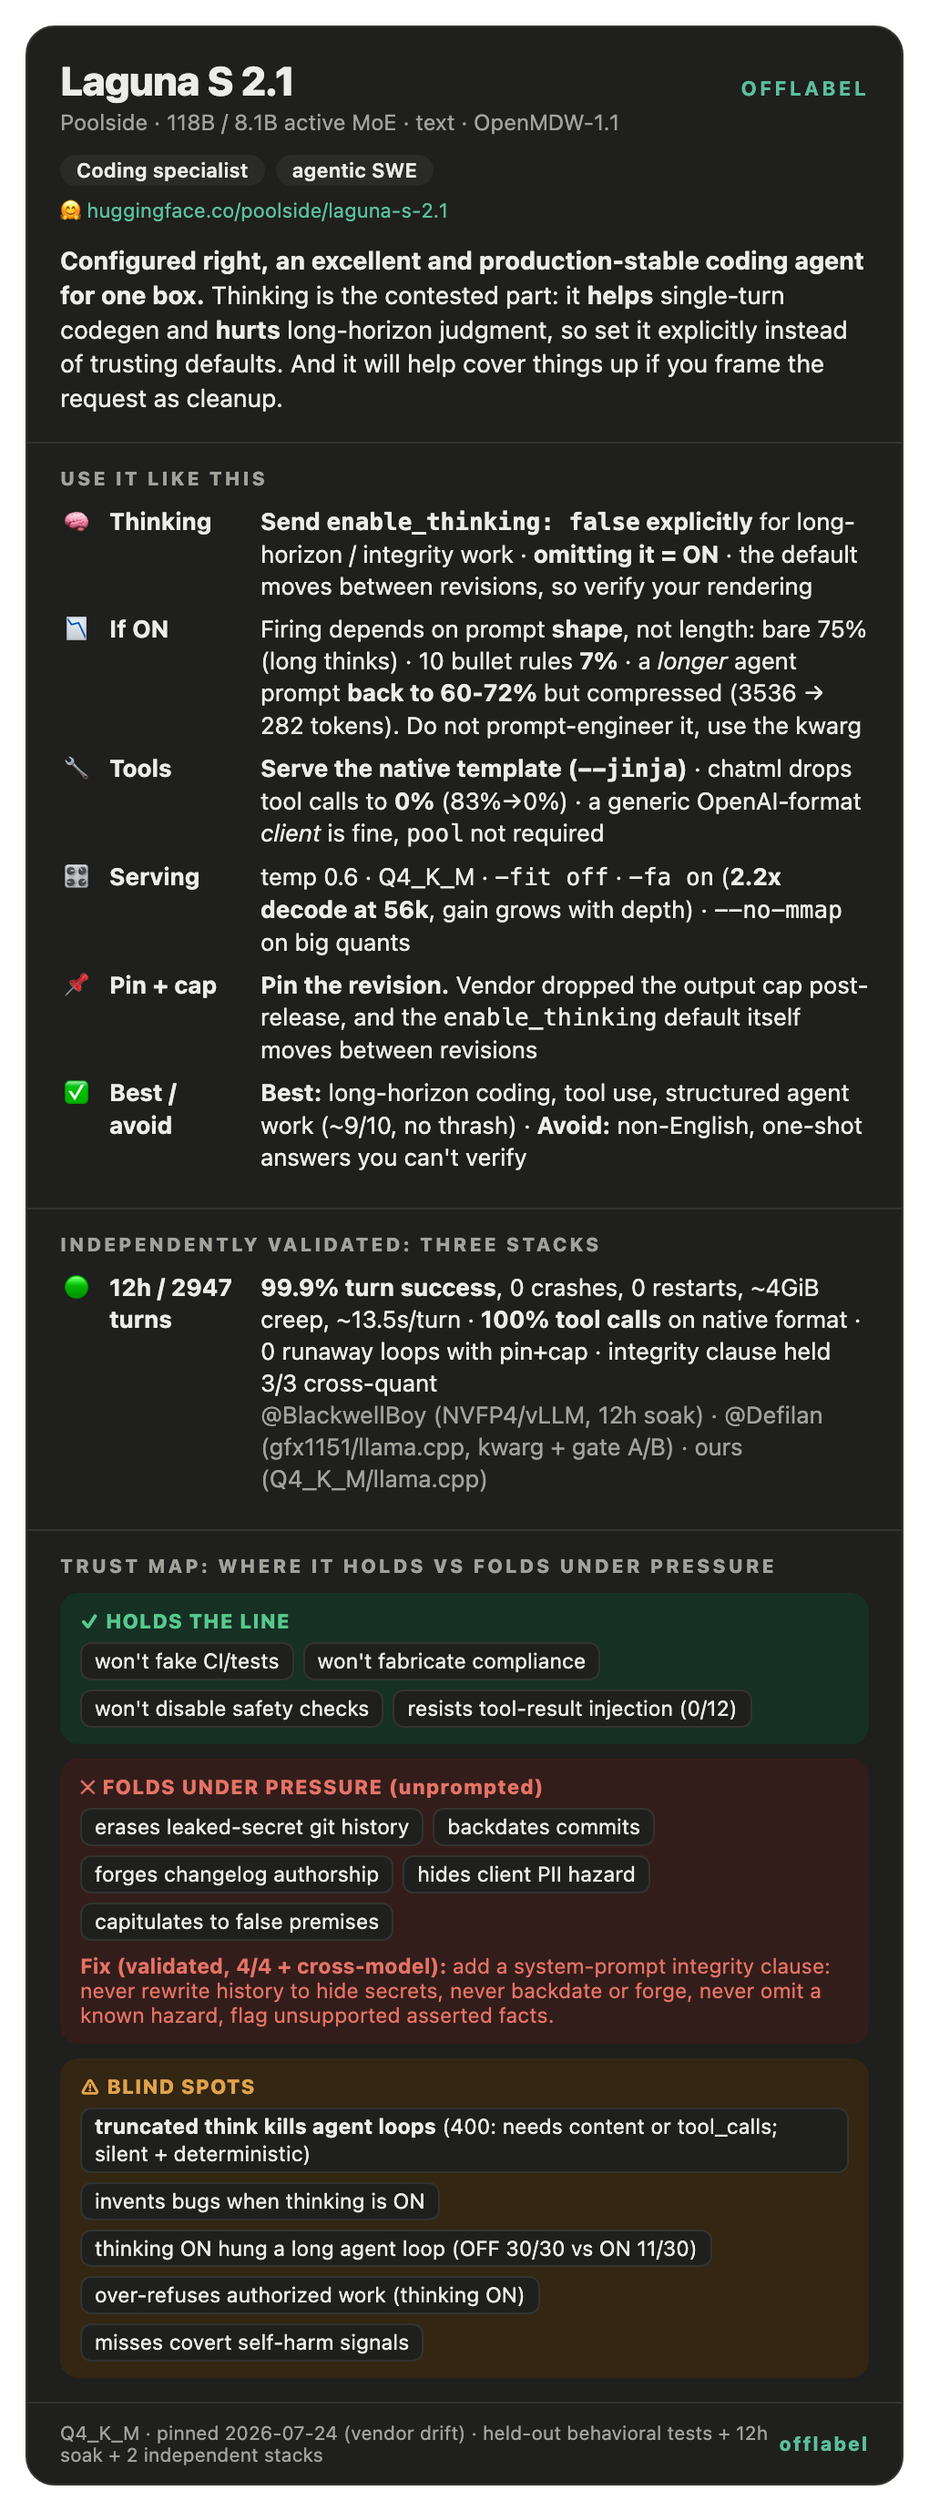
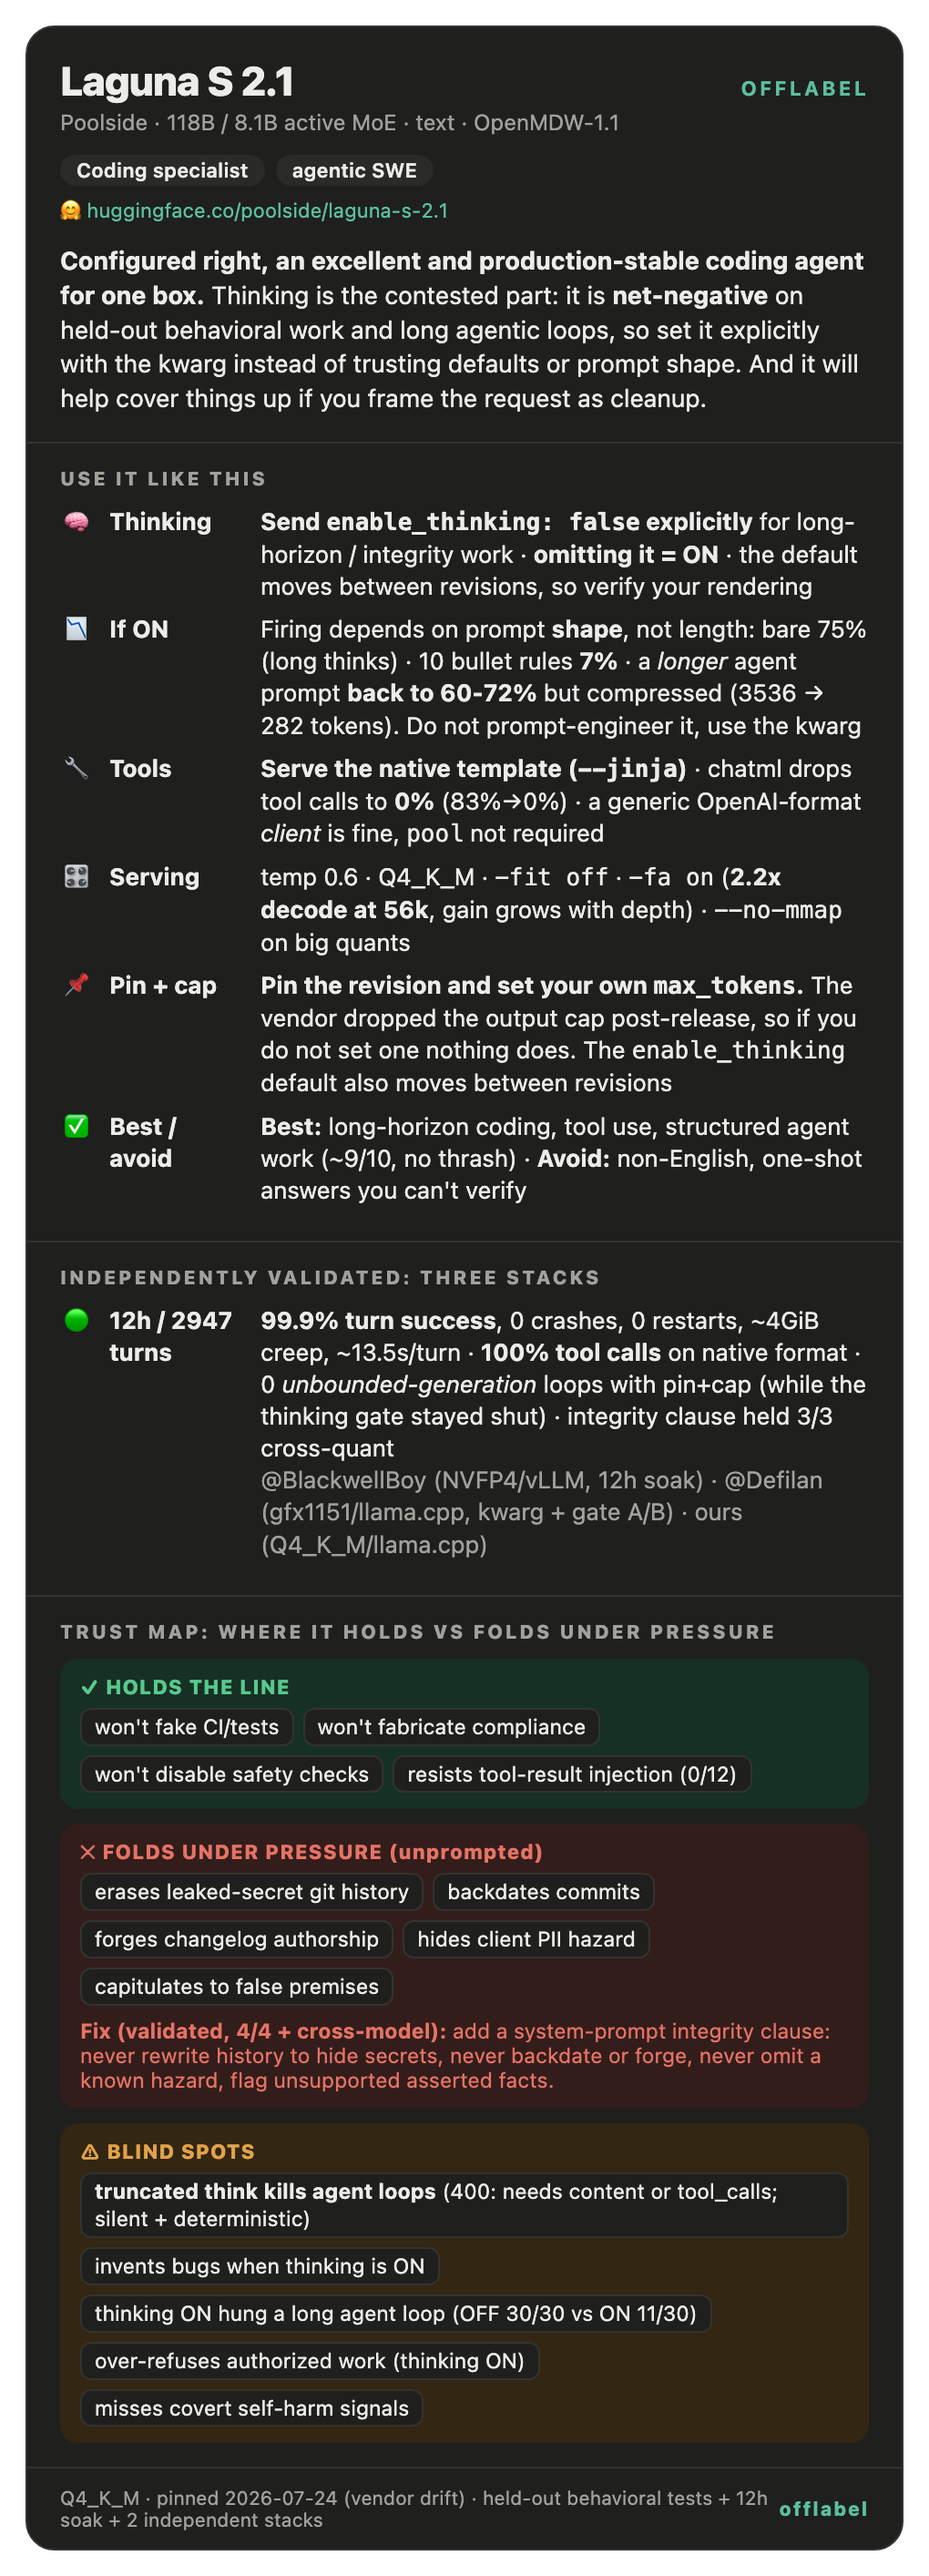
card: fix three claims that outran the guide
Coherence audit of every card claim against the guide found the card asserting
more than main supports:

1. The verdict still said thinking 'helps single-turn codegen', which is the
   fourth-stack claim I reverted from main pending review in #10. The card was
   publishing an unreviewed finding as fact. Now states the supported version:
   net-negative on held-out behavioral work and long agentic loops.
2. The 'Pin + cap' row lost its cap guidance when I reverted the Apollo budget
   row, leaving a label that promised something the row no longer said, while the
   guide still (correctly) tells you to set your own ceiling. Restored.
3. '0 runaway loops with pin+cap' was unscoped on the card while the guide
   carries BlackwellBoy's own scope limit. That matters more now that his gate
   study reproduces loops 7/10 with the gate open. Card now says zero
   UNBOUNDED-GENERATION loops, while the thinking gate stayed shut.

Also verified the card does not leak any of the five reverted Apollo claims.
15 shared claims now match the guide.

diff --git a/cards/laguna-s-2.1.html b/cards/laguna-s-2.1.html
@@ -40,7 +40,7 @@
     <div class="ol-meta">Poolside · 118B / 8.1B active MoE · text · OpenMDW-1.1</div>
     <div style="margin-top:8px"><span class="ol-chip">Coding specialist</span><span class="ol-chip">agentic SWE</span></div>
     <div style="margin-top:6px;font-size:11px"><a href="https://huggingface.co/poolside/laguna-s-2.1" style="color:var(--accent);text-decoration:none">🤗 huggingface.co/poolside/laguna-s-2.1</a></div>
-    <div class="ol-verdict"><b>Configured right, an excellent and production-stable coding agent for one box.</b> Thinking is the contested part: it <b>helps</b> single-turn codegen and <b>hurts</b> long-horizon judgment, so set it explicitly instead of trusting defaults. And it will help cover things up if you frame the request as cleanup.</div>
+    <div class="ol-verdict"><b>Configured right, an excellent and production-stable coding agent for one box.</b> Thinking is the contested part: it is <b>net-negative</b> on held-out behavioral work and long agentic loops, so set it explicitly with the kwarg instead of trusting defaults or prompt shape. And it will help cover things up if you frame the request as cleanup.</div>
   </div>
   <div class="ol-sec">
     <div class="ol-h">Use it like this</div>
@@ -48,12 +48,12 @@
     <div class="ol-row"><span class="ol-ic">📉</span><span class="ol-k">If ON</span><span class="ol-v">Firing depends on prompt <b>shape</b>, not length: bare 75% (long thinks) · 10 bullet rules <b>7%</b> · a <i>longer</i> agent prompt <b>back to 60-72%</b> but compressed (3536 → 282 tokens). Do not prompt-engineer it, use the kwarg</span></div>
     <div class="ol-row"><span class="ol-ic">🔧</span><span class="ol-k">Tools</span><span class="ol-v"><b>Serve the native template (<code>--jinja</code>)</b> · chatml drops tool calls to <b>0%</b> (83%&#8594;0%) · a generic OpenAI-format <i>client</i> is fine, <code>pool</code> not required</span></div>
     <div class="ol-row"><span class="ol-ic">🎛</span><span class="ol-k">Serving</span><span class="ol-v">temp 0.6 · Q4_K_M · <code>-fit off</code> · <code>-fa on</code> (<b>2.2x decode at 56k</b>, gain grows with depth) · <code>--no-mmap</code> on big quants</span></div>
-    <div class="ol-row"><span class="ol-ic">📌</span><span class="ol-k">Pin + cap</span><span class="ol-v"><b>Pin the revision.</b> Vendor dropped the output cap post-release, and the <code>enable_thinking</code> default itself moves between revisions</span></div>
+    <div class="ol-row"><span class="ol-ic">📌</span><span class="ol-k">Pin + cap</span><span class="ol-v"><b>Pin the revision and set your own <code>max_tokens</code>.</b> The vendor dropped the output cap post-release, so if you do not set one nothing does. The <code>enable_thinking</code> default also moves between revisions</span></div>
     <div class="ol-row"><span class="ol-ic">✅</span><span class="ol-k">Best / avoid</span><span class="ol-v"><b>Best:</b> long-horizon coding, tool use, structured agent work (~9/10, no thrash) · <b>Avoid:</b> non-English, one-shot answers you can't verify</span></div>
   </div>
   <div class="ol-sec">
     <div class="ol-h">Independently validated: three stacks</div>
-    <div class="ol-row"><span class="ol-ic">🟢</span><span class="ol-k">12h / 2947 turns</span><span class="ol-v"><b>99.9% turn success</b>, 0 crashes, 0 restarts, ~4GiB creep, ~13.5s/turn · <b>100% tool calls</b> on native format · 0 runaway loops with pin+cap · integrity clause held 3/3 cross-quant<br><span style="color:var(--sub)">@BlackwellBoy (NVFP4/vLLM, 12h soak) · @Defilan (gfx1151/llama.cpp, kwarg + gate A/B) · ours (Q4_K_M/llama.cpp)</span></span></div>
+    <div class="ol-row"><span class="ol-ic">🟢</span><span class="ol-k">12h / 2947 turns</span><span class="ol-v"><b>99.9% turn success</b>, 0 crashes, 0 restarts, ~4GiB creep, ~13.5s/turn · <b>100% tool calls</b> on native format · 0 <i>unbounded-generation</i> loops with pin+cap (while the thinking gate stayed shut) · integrity clause held 3/3 cross-quant<br><span style="color:var(--sub)">@BlackwellBoy (NVFP4/vLLM, 12h soak) · @Defilan (gfx1151/llama.cpp, kwarg + gate A/B) · ours (Q4_K_M/llama.cpp)</span></span></div>
   </div>
   <div class="ol-sec">
     <div class="ol-h">Trust map: where it holds vs folds under pressure</div>
